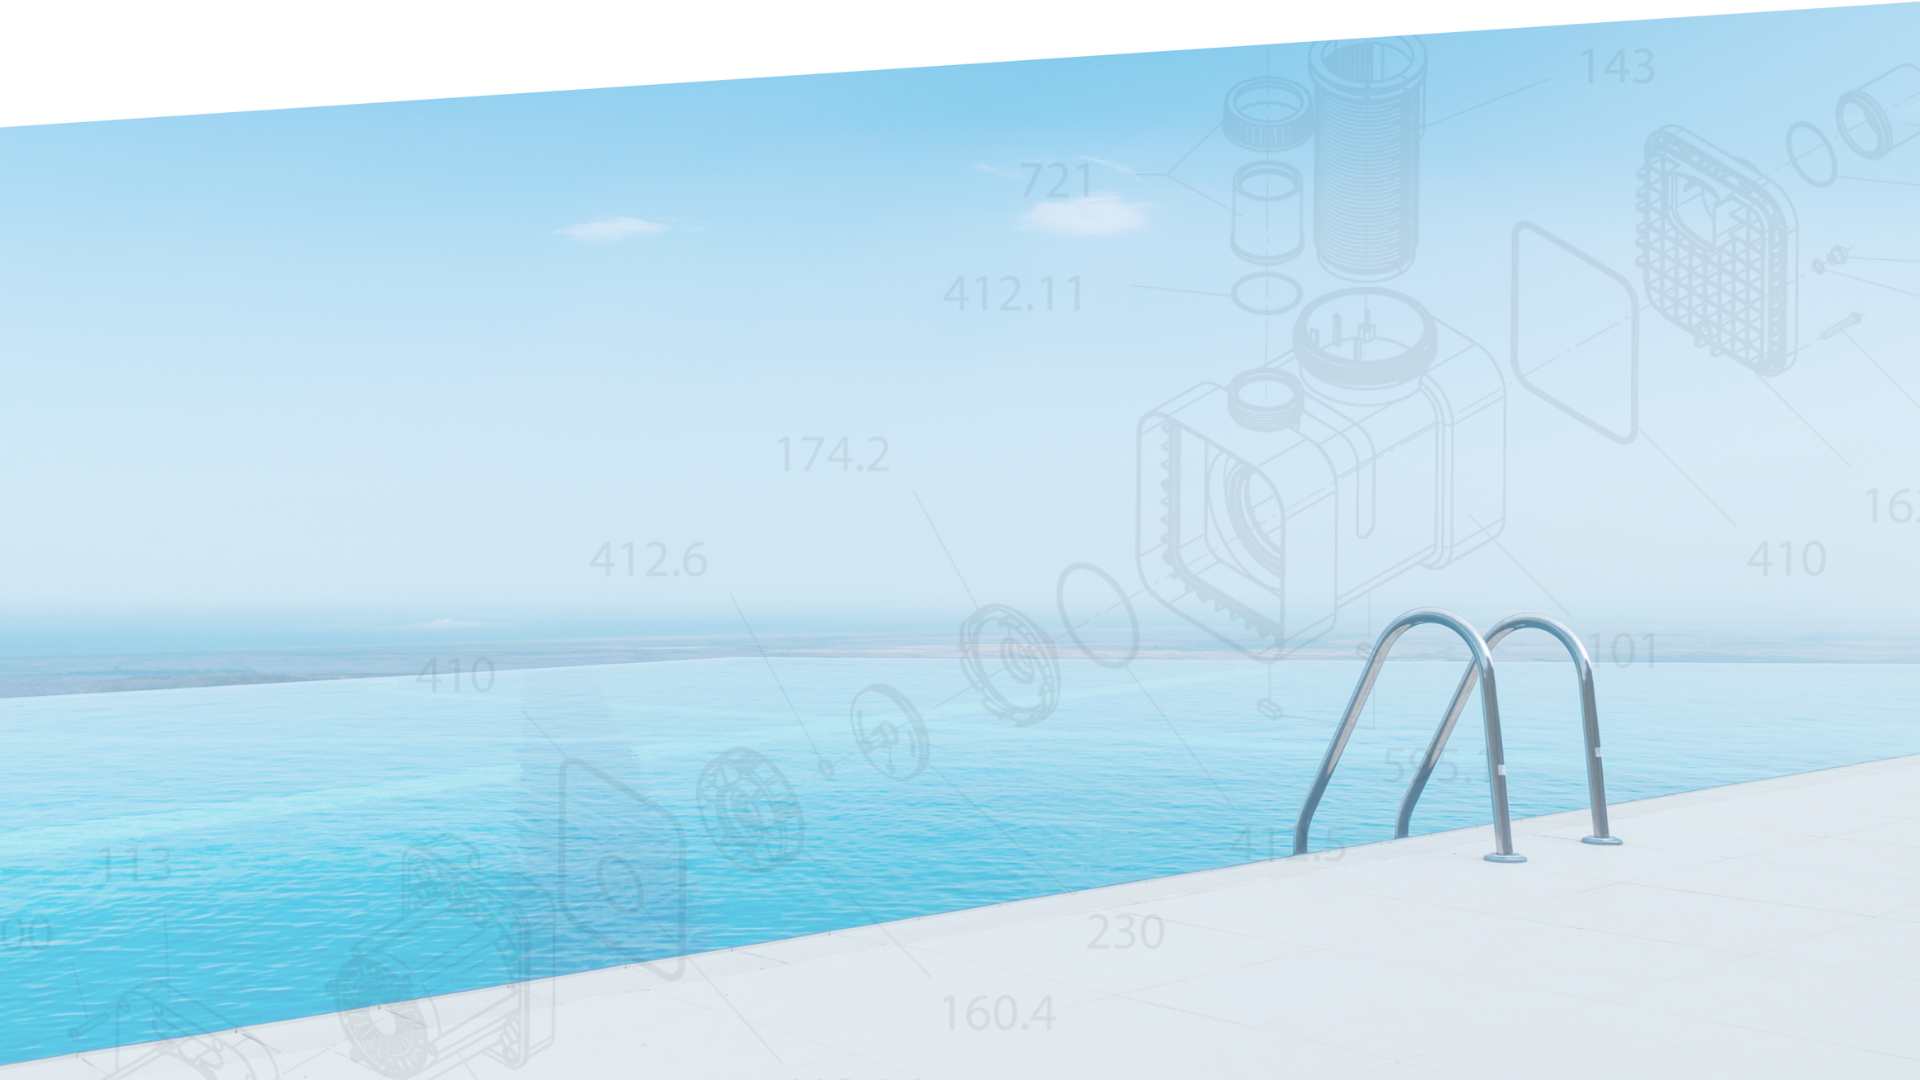
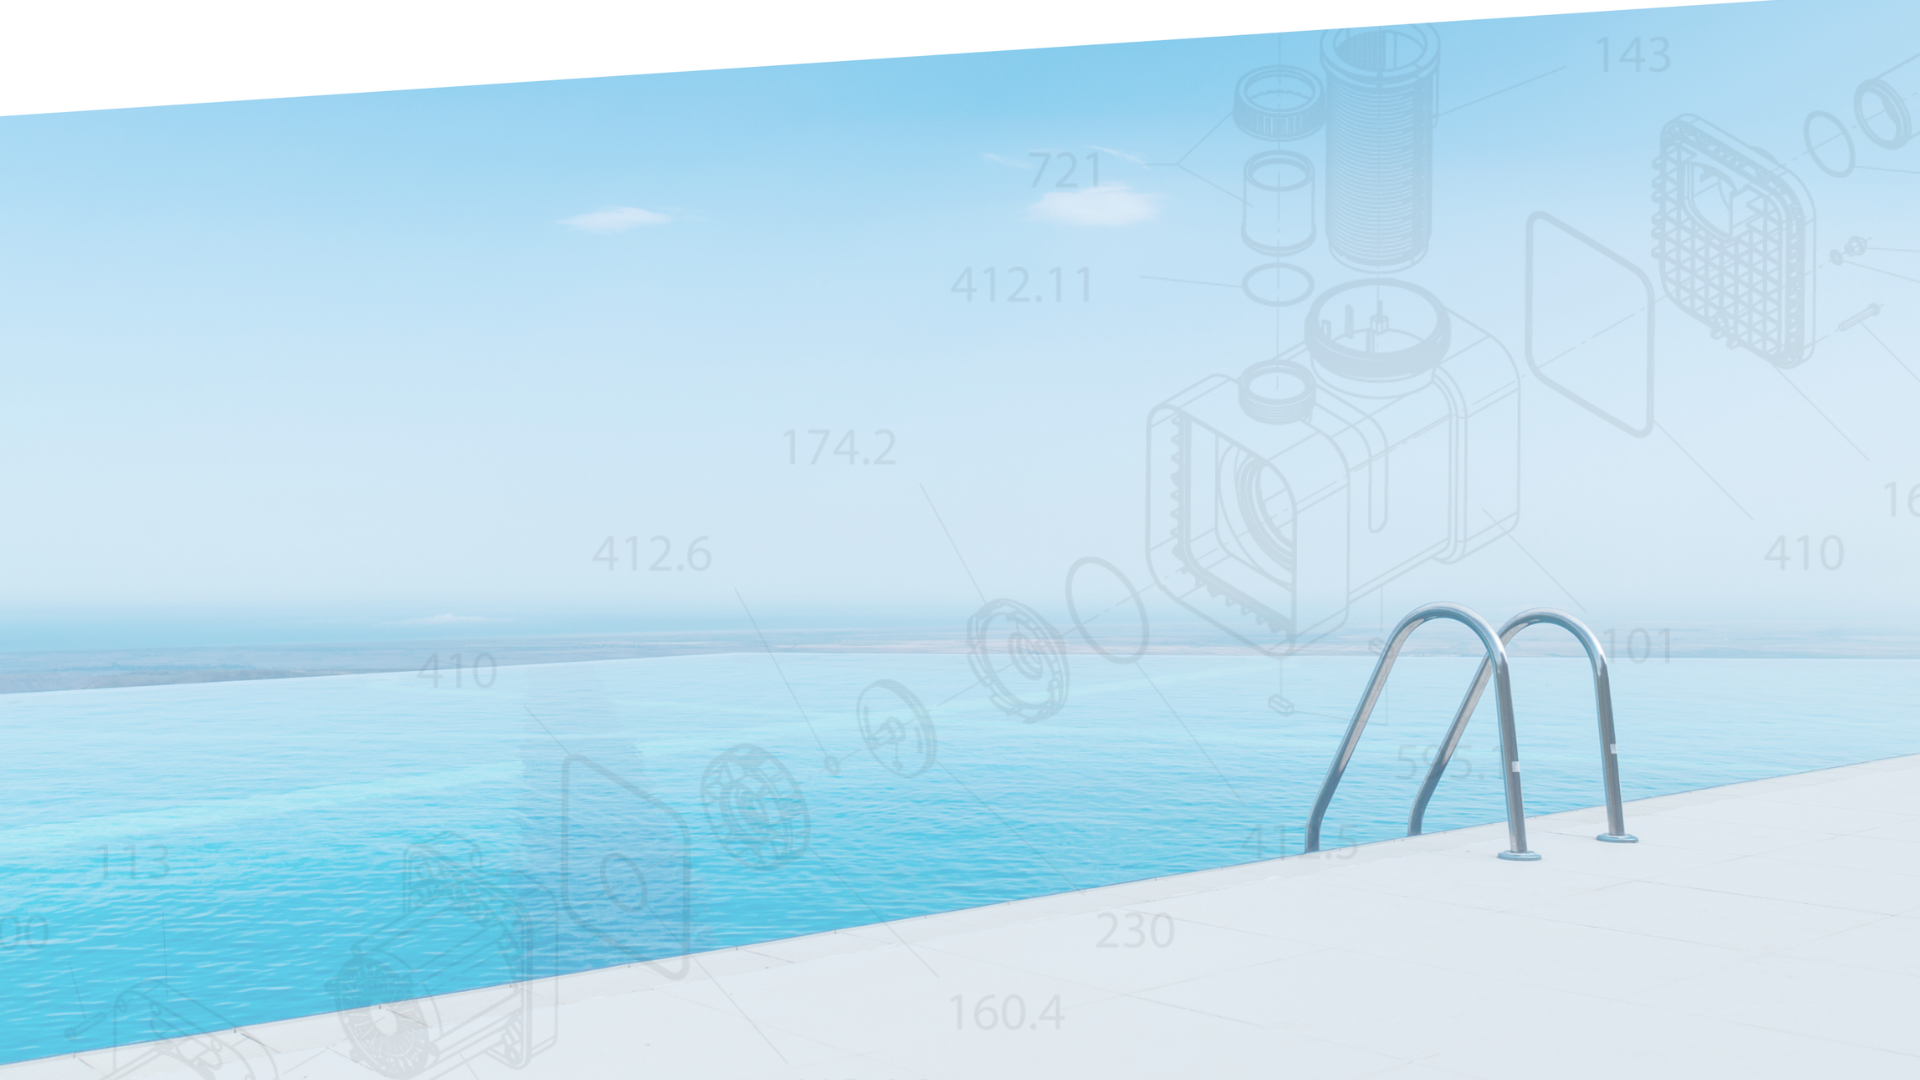
dfvgbn

diff --git a/public/style/web/home.css b/public/style/web/home.css
@@ -171,6 +171,7 @@ form .btn-style {
     text-align: center;
     padding-top: 10rem;
     /* line-height: 10px; */
+    position: absolute;
 }
 
 .bg-image .hero-heading-container h1 {
@@ -185,7 +186,7 @@ form .btn-style {
     display: block;
     position: absolute;
     width: 300px;
-    left: 75%;
+    left: 82%;
     top: 11%;
 }
 
@@ -223,6 +224,7 @@ form .btn-style {
     justify-content: center;
     max-width: 50%;
     max-height: 100%;
+    padding-top: 2rem;
 }
 .card {
     width: 400px;
@@ -302,7 +304,7 @@ footer .footer-container .footer-desc img {
     width: 150px;
 }
 footer .footer-container .footer-desc .footer-brand {
-    width: 200px;
+    width: 300px;
     margin: auto;
     justify-content: center;
 }

diff --git a/resources/views/frontEnd/home.blade.php b/resources/views/frontEnd/home.blade.php
@@ -34,8 +34,8 @@
 @include('frontEnd/partial/header')
 
   <div class="bg-image myDiv" id="hero" style="clip-path: polygon(0 10%, 100% 0%, 100% 100%, 0% 100%);">
-  <div class="bg" style="background-image:url({{ asset('assets/frontEnd/web/images/light-bg.png')}} ); background-position: center center;   background-size: cover !important;
-    background-repeat: no-repeat !important; height:100%;">
+
+    <img src="{{ asset('assets/frontEnd/web/images/light-background.png')}} " style="width:100%; height:100%;" alt="" srcset="">
     <img class="product" src="{{ asset('assets/frontEnd/web/images/product-2.png')}} " alt="" srcset="">
     <div class="hero-heading-container">
     <h1 class="hero-heading">Specialist</h1>
@@ -46,7 +46,6 @@
 
     <img class="exclusive" src="{{ asset('assets/frontEnd/web/images/exclusive-tag.png')}} " alt="" srcset="">
   
-    </div>
   </div>
 
   <section class="dark-view" id="view" style="background-color:#eeeeee;">

diff --git a/resources/views/frontEnd/partial/footer.blade.php b/resources/views/frontEnd/partial/footer.blade.php
@@ -57,7 +57,7 @@
           </p>
         </div>
         <div class="col">
-          <p class="footer-desc">
+          <p class="footer-desc" style="margin-top:-3rem;">
             <img class="footer-brand" src="{{ asset('assets/frontEnd/web/images/spato-logo.png')}}" alt="" srcset="" />
           </p>
           <p class="footer-desc phone">
